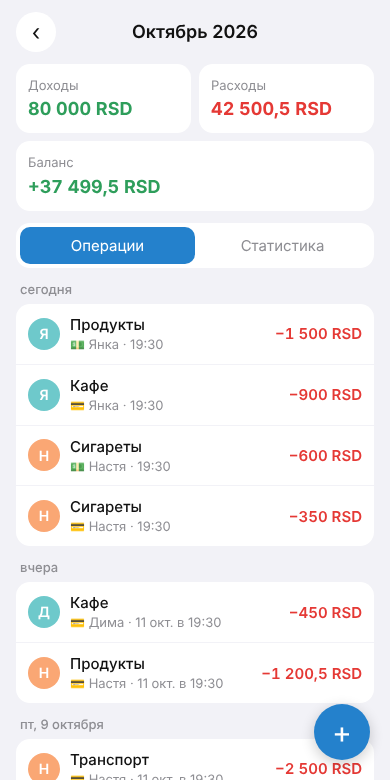
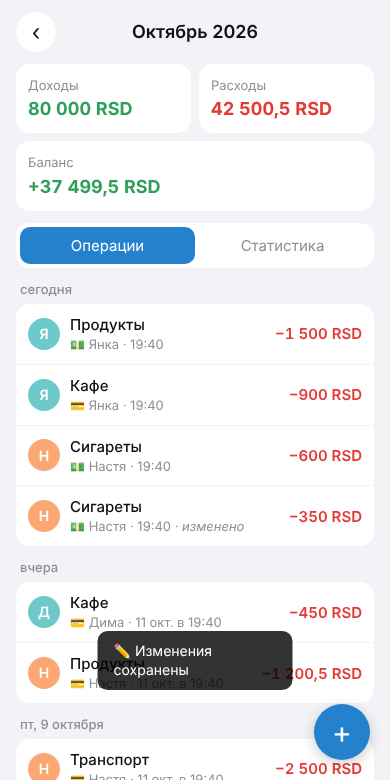
Редактирование записей
- PUT /api/transactions/{id}: меняются тип, сумма, категория, способ оплаты, дата
- автор и время создания сохраняются; миграция 0003: кто и когда изменил
- форма: тап по записи открывает её для правки, удаление перенесено в форму
- список: пометка «изменено»; партнёру уходит уведомление «было → стало»

Claude-Session: https://claude.ai/code/session_01HmhwFt7M9wBtMENfvViKVR

diff --git a/worker/src/index.js b/worker/src/index.js
@@ -2,8 +2,8 @@
 // Интерфейс лежит на GitHub Pages и обращается сюда с другого домена (CORS).
 import { validateInitData, webhookSecret } from './auth.js';
 import { EXPENSE_CATEGORIES, INCOME_CATEGORIES, METHODS, allowedIds, todayISO } from './config.js';
-import { addTx, deleteTx, getTx, listMonth, summary } from './db.js';
-import { handleUpdate, notifyAdded, notifyDeleted, setupBot } from './bot.js';
+import { addTx, deleteTx, getTx, listMonth, summary, updateTx } from './db.js';
+import { handleUpdate, notifyAdded, notifyDeleted, notifyEdited, setupBot } from './bot.js';
 import { parseAmount, toMajor } from './money.js';
 import { MONTH_RE, sendExport } from './export.js';
 
@@ -12,7 +12,7 @@ const DATE_RE = /^\d{4}-(0[1-9]|1[0-2])-(0[1-9]|[12]\d|3[01])$/;
 function corsHeaders(env) {
   return {
     'Access-Control-Allow-Origin': env.ALLOWED_ORIGIN || '*',
-    'Access-Control-Allow-Methods': 'GET, POST, DELETE, OPTIONS',
+    'Access-Control-Allow-Methods': 'GET, POST, PUT, DELETE, OPTIONS',
     'Access-Control-Allow-Headers': 'Content-Type, X-Telegram-Init-Data',
     'Access-Control-Max-Age': '86400',
     Vary: 'Origin',
@@ -31,7 +31,26 @@ const txOut = (t) => ({
   id: t.id, user_id: t.user_id, user_name: t.user_name, kind: t.kind,
   amount: toMajor(t.amount_minor), category: t.category, method: t.method || 'card',
   date: t.op_date, created_at: t.created_at,
+  updated_at: t.updated_at || null, updated_by_name: t.updated_by_name || null,
 });
+
+/** Проверка полей операции (для добавления и редактирования). Возвращает { error } или поля */
+function parseTxBody(body, env) {
+  const { kind } = body;
+  if (kind !== 'income' && kind !== 'expense') return { error: 'kind должен быть income или expense' };
+  const amountMinor = parseAmount(body.amount);
+  if (amountMinor === null) return { error: 'Некорректная сумма' };
+  const allowed = kind === 'income' ? INCOME_CATEGORIES : EXPENSE_CATEGORIES;
+  const category = String(body.category || '').trim();
+  if (!allowed.includes(category)) return { error: 'Неизвестная категория' };
+  const method = body.method === undefined ? 'card' : body.method;
+  if (!METHODS.includes(method)) return { error: 'method должен быть card или cash' };
+  const opDate = String(body.date || todayISO(env));
+  if (!DATE_RE.test(opDate) || Number.isNaN(Date.parse(opDate))) {
+    return { error: 'Дата должна быть в формате ГГГГ-ММ-ДД' };
+  }
+  return { kind, amountMinor, category, method, opDate };
+}
 
 async function api(request, env, ctx, url) {
   // 1. Проверяем, что запрос из Telegram и от одного из двух участников
@@ -76,24 +95,10 @@ async function api(request, env, ctx, url) {
     let body;
     try { body = await request.json(); } catch { return error(400, 'Ожидался JSON', env); }
 
-    const { kind } = body;
-    if (kind !== 'income' && kind !== 'expense') return error(400, 'kind должен быть income или expense', env);
-    const amountMinor = parseAmount(body.amount);
-    if (amountMinor === null) return error(400, 'Некорректная сумма', env);
-    const allowed = kind === 'income' ? INCOME_CATEGORIES : EXPENSE_CATEGORIES;
-    const category = String(body.category || '').trim();
-    if (!allowed.includes(category)) return error(400, 'Неизвестная категория', env);
-    const method = body.method === undefined ? 'card' : body.method;
-    if (!METHODS.includes(method)) return error(400, 'method должен быть card или cash', env);
-    const opDate = String(body.date || todayISO(env));
-    if (!DATE_RE.test(opDate) || Number.isNaN(Date.parse(opDate))) {
-      return error(400, 'Дата должна быть в формате ГГГГ-ММ-ДД', env);
-    }
+    const f = parseTxBody(body, env);
+    if (f.error) return error(400, f.error, env);
 
-    const tx = await addTx(env.DB, {
-      userId: user.id, userName: userName(user), kind, amountMinor, category,
-      comment: '', method, opDate,
-    });
+    const tx = await addTx(env.DB, { userId: user.id, userName: userName(user), comment: '', ...f });
     ctx.waitUntil(notifyAdded(env, tx)); // уведомление уходит в фоне, ответ не ждёт
     return json(txOut(tx), 201, env);
   }
@@ -110,6 +115,20 @@ async function api(request, env, ctx, url) {
   }
 
   const del = /^\/api\/transactions\/(\d+)$/.exec(path);
+
+  // Редактирование: может править любой из двоих, автор записи сохраняется
+  if (method === 'PUT' && del) {
+    const old = await getTx(env.DB, Number(del[1]));
+    if (!old) return error(404, 'Запись не найдена — возможно, её уже удалили', env);
+    let body;
+    try { body = await request.json(); } catch { return error(400, 'Ожидался JSON', env); }
+    const f = parseTxBody(body, env);
+    if (f.error) return error(400, f.error, env);
+    const tx = await updateTx(env.DB, old.id, { ...f, editorName: userName(user) });
+    ctx.waitUntil(notifyEdited(env, old, tx, user.id, userName(user)));
+    return json(txOut(tx), 200, env);
+  }
+
   if (method === 'DELETE' && del) {
     const tx = await getTx(env.DB, Number(del[1]));
     if (!tx) return error(404, 'Запись не найдена', env);

diff --git a/webapp/app.js b/webapp/app.js
@@ -19,6 +19,7 @@ const state = {
   category: null,
   method: loadPref('method', 'card'), // последний выбранный способ оплаты запоминается
   saving: false,
+  editing: null, // запись, которую сейчас редактируем (null — добавляем новую)
 };
 
 // ---------- утилиты ----------
@@ -64,6 +65,13 @@ function addedAt(tx) {
   const localDay = `${d.getFullYear()}-${pad(d.getMonth() + 1)}-${pad(d.getDate())}`;
   if (localDay === tx.date) return time;
   return `${d.toLocaleDateString('ru-RU', { day: 'numeric', month: 'short' })} в ${time}`;
+}
+
+function editedAt(tx) {
+  const d = new Date(tx.updated_at);
+  if (Number.isNaN(d.getTime())) return '';
+  return `${d.toLocaleDateString('ru-RU', { day: 'numeric', month: 'short' })} в `
+    + d.toLocaleTimeString('ru-RU', { hour: '2-digit', minute: '2-digit' });
 }
 
 function haptic(type) {
@@ -151,7 +159,8 @@ function renderList() {
     for (const tx of items) {
       const m = methodOf(tx);
       const sub = `<span class="method-tag" title="${m.label}">${m.icon}</span> `
-        + [tx.user_name, addedAt(tx)].filter(Boolean).map(esc).join(' · ');
+        + [tx.user_name, addedAt(tx)].filter(Boolean).map(esc).join(' · ')
+        + (tx.updated_at ? ' · <span class="edited">изменено</span>' : '');
       html += `
         <button class="tx" data-id="${tx.id}">
           <span class="avatar" style="background:${avatarColor(tx.user_id)}">${esc((tx.user_name || '?')[0].toUpperCase())}</span>
@@ -252,14 +261,41 @@ function setKind(kind) {
   renderCategories();
 }
 
-function openSheet() {
-  $('#txForm').reset();
-  setKind('expense');
-  setMethod(state.method);
-  $('#date').value = todayISO();
+function showSheet() {
   $('#sheet').hidden = false;
   if (tg.BackButton) tg.BackButton.show();
+}
+
+// Новая запись
+function openSheet() {
+  state.editing = null;
+  $('#txForm').reset();
+  $('#sheetHead').hidden = true;
+  $('#deleteBtn').hidden = true;
+  $('#saveBtn').textContent = 'Сохранить';
+  setKind('expense');
+  setMethod(loadPref('method', 'card'));
+  $('#date').value = todayISO();
+  showSheet();
   setTimeout(() => $('#amount').focus(), 50);
+}
+
+// Редактирование существующей записи: форма заполняется её данными
+function openEditSheet(tx) {
+  state.editing = tx;
+  $('#txForm').reset();
+  $('#amount').value = String(tx.amount).replace('.', ',');
+  state.category = tx.category;
+  setKind(tx.kind);
+  setMethod(tx.method);
+  $('#date').value = tx.date;
+  const added = `Добавил(а) ${tx.user_name}${addedAt(tx) ? ', ' + addedAt(tx) : ''}`;
+  const edited = tx.updated_at ? ` · изменил(а) ${tx.updated_by_name || '—'}, ${editedAt(tx)}` : '';
+  $('#sheetMeta').textContent = added + edited;
+  $('#sheetHead').hidden = false;
+  $('#deleteBtn').hidden = false;
+  $('#saveBtn').textContent = 'Сохранить изменения';
+  showSheet();
 }
 
 function closeSheet() {
@@ -279,9 +315,10 @@ async function submitForm(e) {
   }
   state.saving = true;
   $('#saveBtn').disabled = true;
+  const editing = state.editing;
   try {
-    const tx = await api('/api/transactions', {
-      method: 'POST',
+    const tx = await api(editing ? `/api/transactions/${editing.id}` : '/api/transactions', {
+      method: editing ? 'PUT' : 'POST',
       body: JSON.stringify({
         kind: state.kind,
         amount,
@@ -292,6 +329,7 @@ async function submitForm(e) {
     });
     haptic('success');
     closeSheet();
+    if (editing) toast('✏ Изменения сохранены');
     state.month = tx.date.slice(0, 7); // показываем месяц, куда попала запись
     await load();
   } catch (err) {
@@ -303,16 +341,21 @@ async function submitForm(e) {
   }
 }
 
-async function onTxClick(id) {
+function onTxClick(id) {
   const tx = state.data.transactions.find((t) => t.id === id);
+  if (tx) openEditSheet(tx);
+}
+
+async function deleteEditing() {
+  const tx = state.editing;
   if (!tx) return;
-  const when = addedAt(tx);
-  const ok = await confirmDialog(`Удалить «${tx.category}» ${signed(tx)} (${methodOf(tx).label.toLowerCase()})?`
-    + `\nДобавил(а): ${tx.user_name}${when ? ', ' + when : ''}`);
+  const ok = await confirmDialog(`Удалить «${tx.category}» ${signed(tx)} (${methodOf(tx).label.toLowerCase()})?`);
   if (!ok) return;
   try {
-    await api(`/api/transactions/${id}`, { method: 'DELETE' });
+    await api(`/api/transactions/${tx.id}`, { method: 'DELETE' });
     haptic('success');
+    closeSheet();
+    toast('🗑 Запись удалена');
     await load();
   } catch (err) {
     toast(err.message);
@@ -363,7 +406,7 @@ function bindEvents() {
     const b = e.target.closest('button[data-method]');
     if (!b) return;
     setMethod(b.dataset.method);
-    savePref('method', state.method);
+    if (!state.editing) savePref('method', state.method); // при правке старой записи выбор не запоминаем
   });
   $('#categories').addEventListener('click', (e) => {
     const b = e.target.closest('.chip');
@@ -372,6 +415,7 @@ function bindEvents() {
     renderCategories();
   });
   $('#txForm').addEventListener('submit', submitForm);
+  $('#deleteBtn').addEventListener('click', deleteEditing);
 
   $('#tab-stats').addEventListener('click', (e) => {
     const b = e.target.closest('[data-export]');

diff --git a/worker/src/bot.js b/worker/src/bot.js
@@ -67,6 +67,30 @@ export const notifyAdded = (env, tx) =>
 export const notifyDeleted = (env, tx, byId, byName) =>
   notifyPartners(env, byId, `🗑 ${esc(byName)} удалил(а) запись: ${describe(tx, env.CURRENCY)}`);
 
+/** Что поменялось в записи — список строк «поле: было → стало» */
+export function diffTx(a, b, currency) {
+  const m = (t) => METHOD_LABEL[t.method === 'cash' ? 'cash' : 'card'];
+  const d = (s) => `${s.slice(8, 10)}.${s.slice(5, 7)}`;
+  const fields = [
+    ['Тип', (t) => (t.kind === 'income' ? 'доход' : 'расход')],
+    ['Сумма', (t) => fmtMoney(t.amount_minor, currency)],
+    ['Категория', (t) => t.category],
+    ['Оплата', m],
+    ['Дата', (t) => d(t.op_date)],
+  ];
+  return fields
+    .filter(([, get]) => get(a) !== get(b))
+    .map(([name, get]) => `${name}: ${esc(get(a))} → <b>${esc(get(b))}</b>`);
+}
+
+export function notifyEdited(env, before, after, byId, byName) {
+  const changes = diffTx(before, after, env.CURRENCY);
+  if (!changes.length) return Promise.resolve();
+  return notifyPartners(env, byId, `✏ ${esc(byName)} изменил(а) запись `
+    + `«${esc(before.category)}» от ${before.op_date.slice(8, 10)}.${before.op_date.slice(5, 7)}:\n`
+    + changes.map((c) => `• ${c}`).join('\n'));
+}
+
 // Разговорные синонимы категорий для быстрого ввода
 const ALIASES = { 'сиги': 'Сигареты', 'сижки': 'Сигареты', 'курево': 'Сигареты', 'табак': 'Сигареты' };
 

diff --git a/webapp/index.html b/webapp/index.html
@@ -5,7 +5,7 @@
   <meta name="viewport" content="width=device-width, initial-scale=1, viewport-fit=cover">
   <title>Бюджет на двоих</title>
   <script src="https://telegram.org/js/telegram-web-app.js"></script>
-  <link rel="stylesheet" href="style.css?v=4">
+  <link rel="stylesheet" href="style.css?v=5">
 </head>
 <body>
   <div id="app" hidden>
@@ -37,6 +37,10 @@
   <div id="sheet" class="sheet" hidden>
     <div class="sheet-backdrop" data-close></div>
     <form id="txForm" class="sheet-body" novalidate>
+      <div class="sheet-head" id="sheetHead" hidden>
+        <h2>Редактирование</h2>
+        <div class="sheet-meta" id="sheetMeta"></div>
+      </div>
       <div class="segmented" id="kindSwitch">
         <button type="button" data-kind="expense" class="active">Расход</button>
         <button type="button" data-kind="income">Доход</button>
@@ -69,13 +73,14 @@
         <button type="button" class="btn secondary" data-close>Отмена</button>
         <button type="submit" class="btn primary" id="saveBtn">Сохранить</button>
       </div>
+      <button type="button" class="btn danger" id="deleteBtn" hidden>🗑 Удалить запись</button>
     </form>
   </div>
 
   <div id="message" class="message" hidden></div>
   <div id="toast" class="toast" hidden></div>
 
-  <script src="config.js?v=4"></script>
-  <script src="app.js?v=4"></script>
+  <script src="config.js?v=5"></script>
+  <script src="app.js?v=5"></script>
 </body>
 </html>

diff --git a/worker/test/unit.test.js b/worker/test/unit.test.js
@@ -71,3 +71,12 @@ test('экспорт в xlsx', () => {
   assert.equal(parsePeriod('2026-09', '2026-10'), '2026-09');
   assert.equal(parsePeriod('вчера', '2026-10'), null);
 });
+
+test('что изменилось при редактировании', async () => {
+  const { diffTx } = await import('../src/bot.js');
+  const before = { kind: 'expense', amount_minor: 35000, category: 'Сигареты', method: 'card', op_date: '2026-10-10' };
+  assert.deepEqual(diffTx(before, { ...before, method: 'cash' }, 'RSD'), ['Оплата: Карта → <b>Наличные</b>']);
+  assert.deepEqual(diffTx(before, { ...before, amount_minor: 40000, op_date: '2026-10-09' }, 'RSD'),
+    ['Сумма: 350 RSD → <b>400 RSD</b>', 'Дата: 10.10 → <b>09.10</b>']);
+  assert.deepEqual(diffTx(before, { ...before }, 'RSD'), []);
+});

diff --git a/worker/src/db.js b/worker/src/db.js
@@ -8,6 +8,17 @@ export async function addTx(db, t) {
     new Date().toISOString().slice(0, 19) + 'Z').first();
 }
 
+/** Изменить запись. Автор (user_id/user_name) и время создания сохраняются */
+export async function updateTx(db, id, t) {
+  return db.prepare(
+    `UPDATE transactions
+        SET kind = ?, amount_minor = ?, category = ?, method = ?, op_date = ?,
+            updated_at = ?, updated_by_name = ?
+      WHERE id = ? RETURNING *`,
+  ).bind(t.kind, t.amountMinor, t.category, t.method, t.opDate,
+    new Date().toISOString().slice(0, 19) + 'Z', t.editorName, id).first();
+}
+
 export const getTx = (db, id) => db.prepare('SELECT * FROM transactions WHERE id = ?').bind(id).first();
 
 export async function deleteTx(db, id) {

diff --git a/webapp/style.css b/webapp/style.css
@@ -127,3 +127,9 @@ button { font: inherit; color: inherit; cursor: pointer; }
 .method-row { display: flex; justify-content: space-between; align-items: center; padding: 6px 0; gap: 8px; }
 .method-nums { text-align: right; font-size: 14px; font-variant-numeric: tabular-nums; }
 .method-nums .pct { color: var(--hint); font-size: 12px; margin-left: 4px; }
+
+.sheet-head { margin-bottom: 12px; }
+.sheet-head h2 { font-size: 17px; margin: 0 0 2px; }
+.sheet-meta { color: var(--hint); font-size: 13px; }
+.btn.danger { display: block; width: 100%; margin-top: 10px; background: none; color: var(--danger); font-weight: 500; }
+.tx .edited { font-style: italic; }
